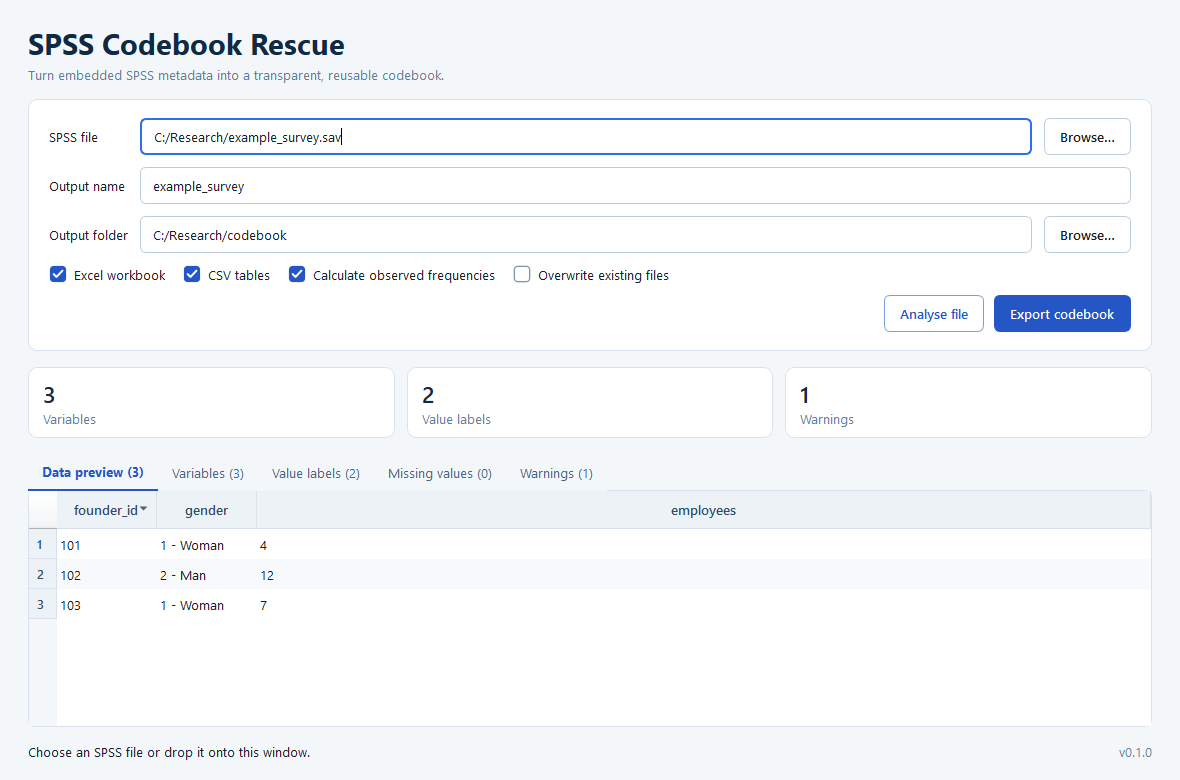
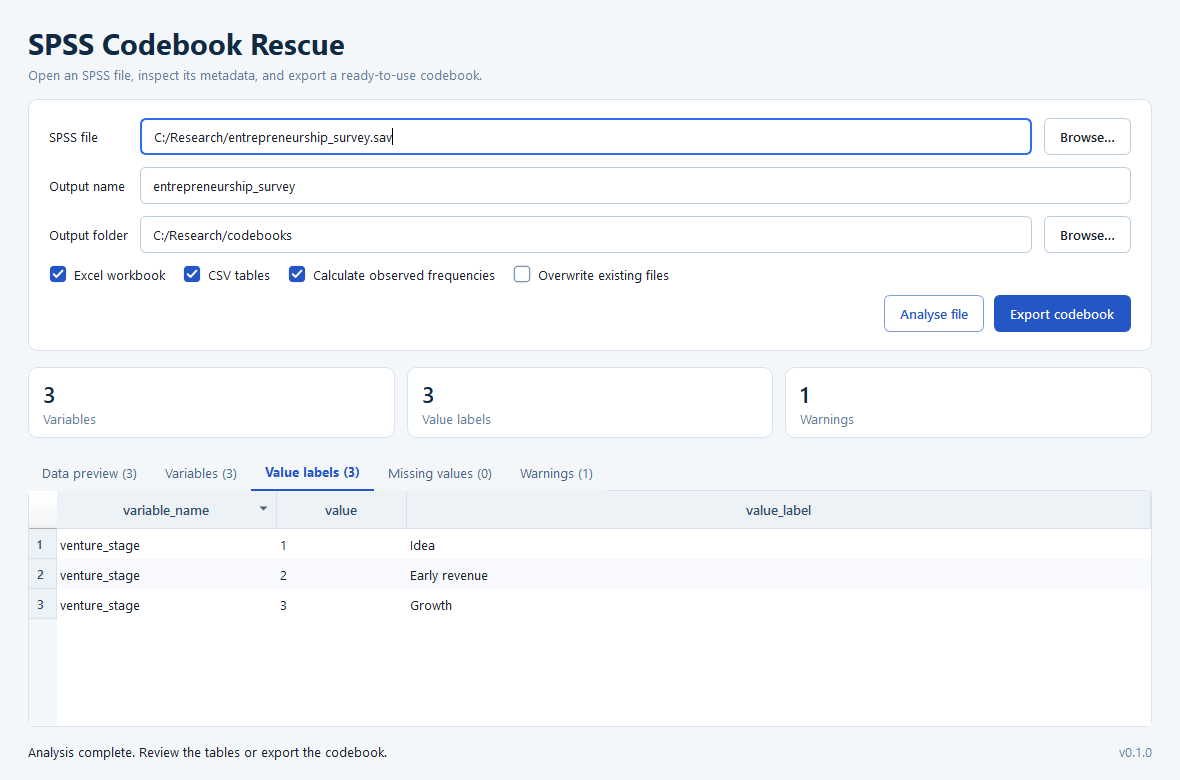
Clarify application screenshot

diff --git a/scripts/capture_screenshot.py b/scripts/capture_screenshot.py
@@ -16,30 +16,30 @@ def main() -> None:
     app.setStyleSheet(app_stylesheet())
 
     window = MainWindow()
-    window.input_path.setText("C:/Research/example_survey.sav")
-    window.output_name.setText("example_survey")
-    window.output_dir.setText("C:/Research/codebook")
+    window.input_path.setText("C:/Research/entrepreneurship_survey.sav")
+    window.output_name.setText("entrepreneurship_survey")
+    window.output_dir.setText("C:/Research/codebooks")
     window._populate_tables(  # noqa: SLF001 - dedicated visual documentation helper
         CodebookResult(
             preview=pd.DataFrame(
                 {
-                    "founder_id": [101, 102, 103],
-                    "gender": ["1 - Woman", "2 - Man", "1 - Woman"],
-                    "employees": [4, 12, 7],
+                    "venture_id": [101, 102, 103],
+                    "venture_stage": ["1 - Idea", "2 - Early revenue", "3 - Growth"],
+                    "employees": [2, 8, 24],
                 }
             ),
             variables=pd.DataFrame(
                 {
-                    "variable_name": ["founder_id", "gender", "employees"],
-                    "variable_label": ["Founder ID", "Gender", "Number of employees"],
+                    "variable_name": ["venture_id", "venture_stage", "employees"],
+                    "variable_label": ["Venture ID", "Venture stage", "Number of employees"],
                     "storage_type": ["double", "double", "double"],
                 }
             ),
             value_labels=pd.DataFrame(
                 {
-                    "variable_name": ["gender", "gender"],
-                    "value": ["1", "2"],
-                    "value_label": ["Woman", "Man"],
+                    "variable_name": ["venture_stage", "venture_stage", "venture_stage"],
+                    "value": ["1", "2", "3"],
+                    "value_label": ["Idea", "Early revenue", "Growth"],
                 }
             ),
             missing_values=pd.DataFrame(
@@ -55,6 +55,13 @@ def main() -> None:
             ),
         )
     )
+    window.status_label.setText(
+        "Analysis complete. Review the tables or export the codebook."
+    )
+    window.tabs.setCurrentIndex(2)
+    value_labels_table = window.tabs.widget(2)
+    value_labels_table.setColumnWidth(0, 220)
+    value_labels_table.setColumnWidth(1, 130)
     window.resize(1180, 780)
     window.show()
     app.processEvents()

diff --git a/src/spss_codebook/gui.py b/src/spss_codebook/gui.py
@@ -216,7 +216,9 @@ class MainWindow(QMainWindow):
         layout.setSpacing(4)
         title = QLabel("SPSS Codebook Rescue")
         title.setObjectName("pageTitle")
-        subtitle = QLabel("Turn embedded SPSS metadata into a transparent, reusable codebook.")
+        subtitle = QLabel(
+            "Open an SPSS file, inspect its metadata, and export a ready-to-use codebook."
+        )
         subtitle.setObjectName("pageSubtitle")
         layout.addWidget(title)
         layout.addWidget(subtitle)
